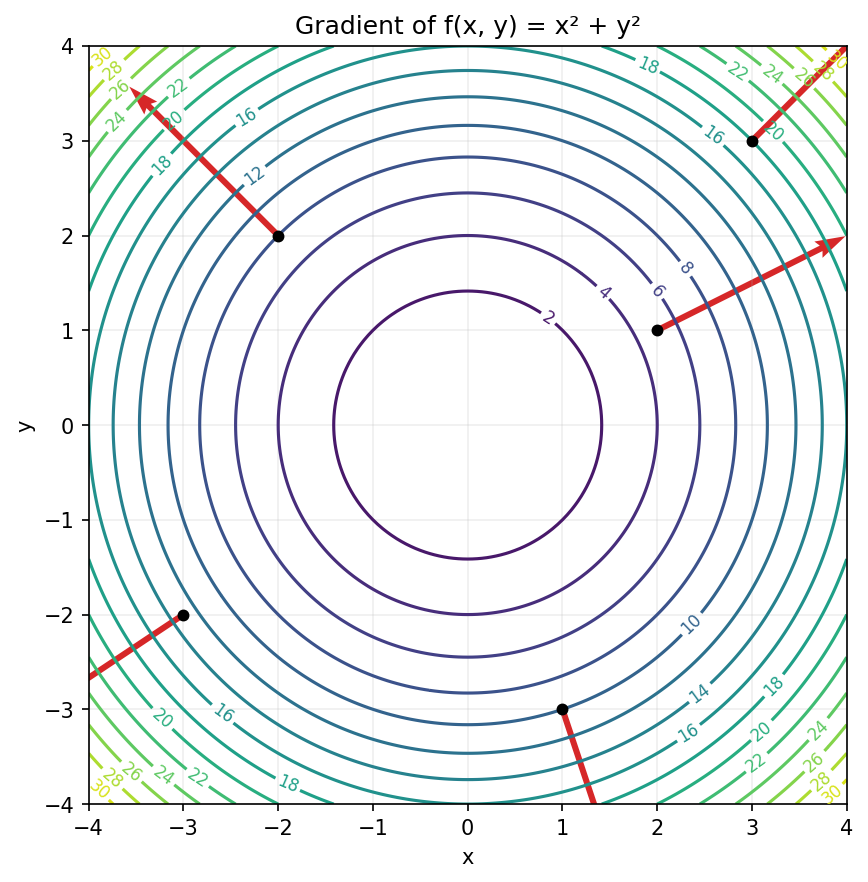
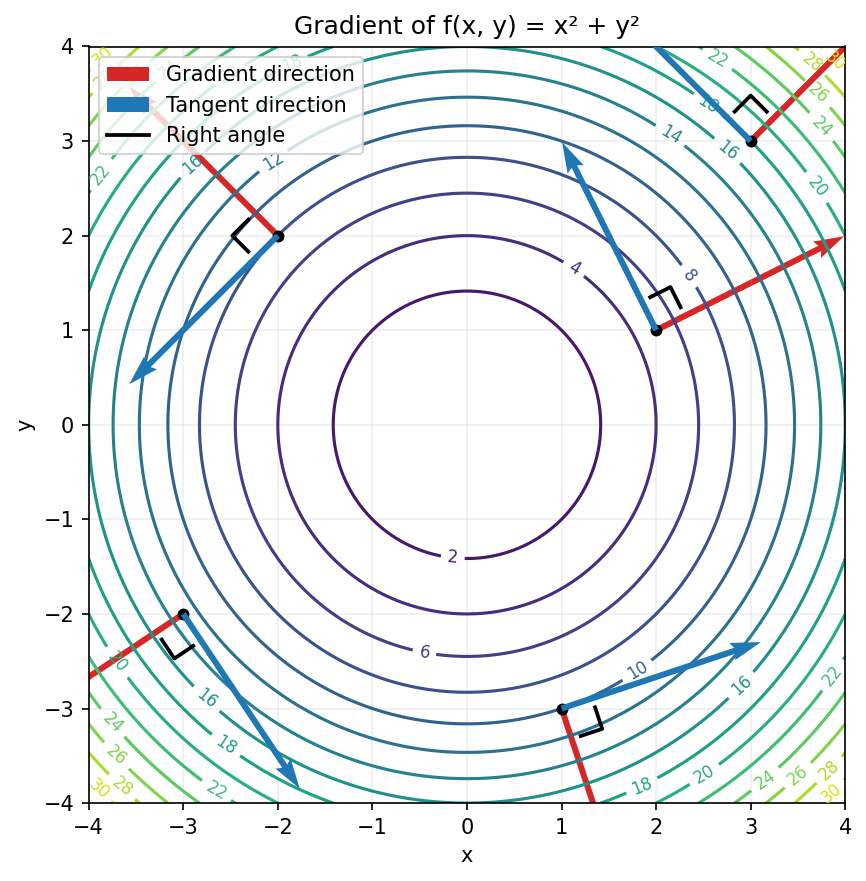
feat(calculus): show tangent directions for gradients

diff --git a/src/calculus.py b/src/calculus.py
@@ -133,6 +133,43 @@ def plot_gradient_field(
         width=0.008,
         label="Gradient direction",
     )
+    # 모든 그래디언트에 수직인 등고선 접선 방향 (-g_y, g_x)을 함께 표시합니다.
+    tangent_directions = np.column_stack((-directions[:, 1], directions[:, 0]))
+    axes.quiver(
+        samples[:, 0],
+        samples[:, 1],
+        tangent_directions[:, 0],
+        tangent_directions[:, 1],
+        color="tab:blue",
+        angles="xy",
+        scale_units="xy",
+        scale=0.45,
+        width=0.008,
+        label="Tangent direction",
+        zorder=4,
+    )
+    # 각 점에서 두 방향에 평행한 선분을 이어 수직 관계를 보여 주는 작은 ㄱ자 마커입니다.
+    marker_size = 0.24
+    for index, (point, direction, tangent) in enumerate(
+        zip(samples, directions, tangent_directions)
+    ):
+        marker_corner = point + 0.34 * (direction + tangent)
+        axes.plot(
+            [
+                marker_corner[0] - marker_size * direction[0],
+                marker_corner[0],
+                marker_corner[0] - marker_size * tangent[0],
+            ],
+            [
+                marker_corner[1] - marker_size * direction[1],
+                marker_corner[1],
+                marker_corner[1] - marker_size * tangent[1],
+            ],
+            color="black",
+            linewidth=1.8,
+            label="Right angle" if index == 0 else "_nolegend_",
+            zorder=5,
+        )
     # 화살표가 시작하는 좌표를 검은 점으로 함께 표시합니다.
     axes.scatter(samples[:, 0], samples[:, 1], color="black", s=22, zorder=3)
     # x축과 y축의 실제 길이 비율을 같게 유지합니다.
@@ -141,5 +178,6 @@ def plot_gradient_field(
     axes.set_ylabel("y")
     axes.set_title("Gradient of f(x, y) = x² + y²")
     axes.grid(alpha=0.2)
+    axes.legend(loc="upper left")
     figure.tight_layout()
     return figure, axes

diff --git a/tests/test_calculus.py b/tests/test_calculus.py
@@ -3,6 +3,7 @@
 import matplotlib.pyplot as plt
 import numpy as np
 import pytest
+from matplotlib.quiver import Quiver
 
 from src.calculus import (
     central_difference,
@@ -57,6 +58,25 @@ def test_gradient_plot_contains_contours_and_vector_field():
     assert axes.collections
     assert axes.get_aspect() in (1.0, "equal")
     assert axes.get_title() == "Gradient of f(x, y) = x² + y²"
+    plt.close(figure)
+
+
+def test_gradient_plot_marks_tangents_perpendicular_to_every_gradient():
+    """어느 점의 접선이나 직각 마커가 빠지면 수직 관계를 읽을 수 없어야 합니다."""
+    figure, axes = plot_gradient_field()
+    arrows = {
+        arrow.get_label(): arrow
+        for arrow in axes.collections
+        if isinstance(arrow, Quiver)
+    }
+
+    gradient_arrow = arrows["Gradient direction"]
+    tangent_arrow = arrows["Tangent direction"]
+    np.testing.assert_allclose(tangent_arrow.X, gradient_arrow.X)
+    np.testing.assert_allclose(tangent_arrow.Y, gradient_arrow.Y)
+    dot_products = gradient_arrow.U * tangent_arrow.U + gradient_arrow.V * tangent_arrow.V
+    np.testing.assert_allclose(dot_products, 0.0, atol=1e-12)
+    assert len(axes.lines) == len(gradient_arrow.X)
     plt.close(figure)
 
 
